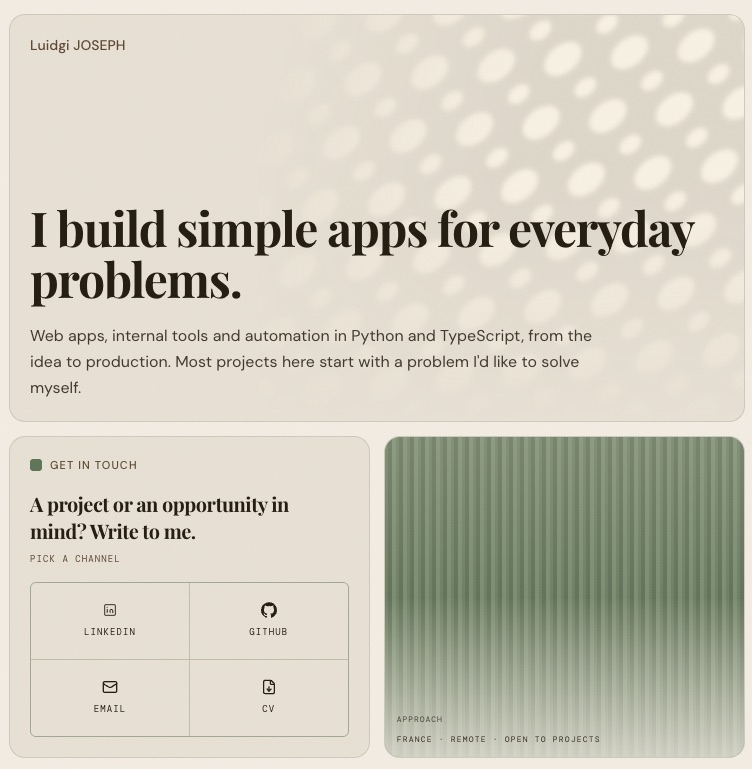
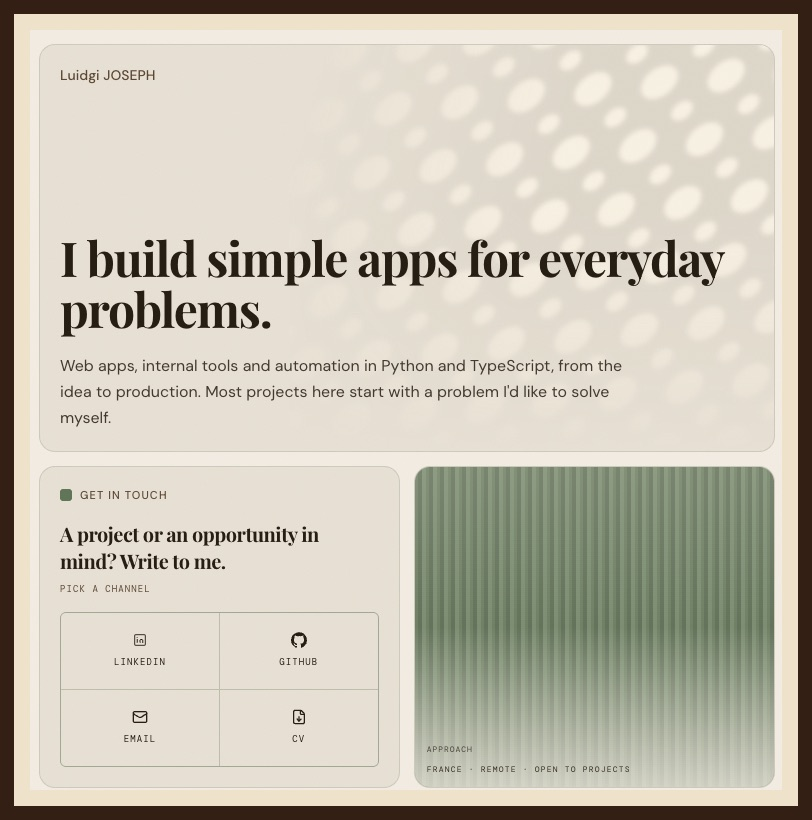
docs(readme): Frame the ambiance screenshots at one size

diff --git a/README.md b/README.md
@@ -5,7 +5,7 @@ in English and French. Each project card opens a full screen case study.
 
 The look comes from Mid-Century Modern interiors of the 1950s to the 1970s: teak,
 cognac leather, brass, plaster, breeze blocks and Bauhaus posters. The visitor picks one
-of four rooms, and the whole site takes its colors.
+of four rooms, and the whole site takes its colors. Amber Chocolate is the default.
 
 <table>
   <tr>
@@ -17,7 +17,7 @@ of four rooms, and the whole site takes its colors.
   <tr>
     <td align="center"><sub>01 · White Plaster</sub></td>
     <td align="center"><sub>02 · Terracotta Sand</sub></td>
-    <td align="center"><sub>03 · Amber Chocolate (default)</sub></td>
+    <td align="center"><sub>03 · Amber Chocolate</sub></td>
     <td align="center"><sub>04 · Oxblood Night</sub></td>
   </tr>
 </table>
